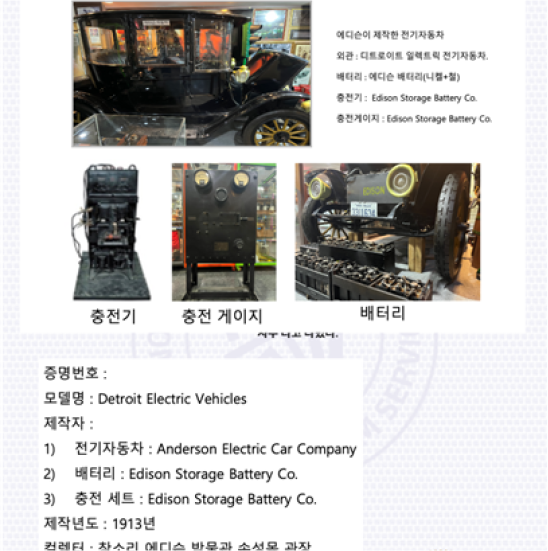
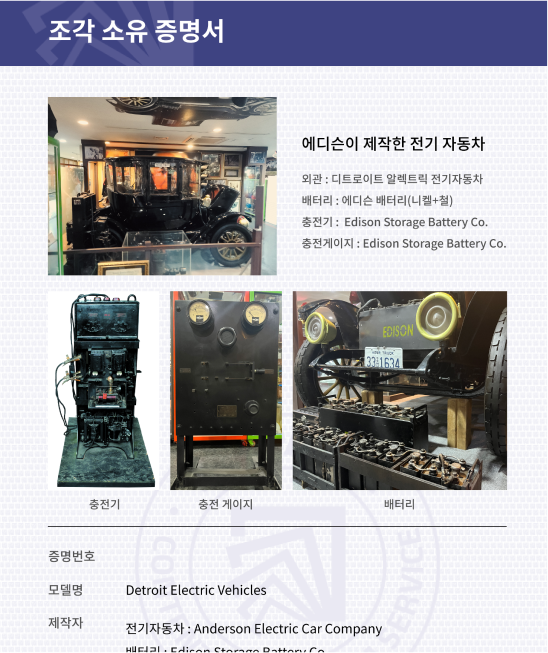
MK-01-0004 완료

diff --git a/asset/css/common.css b/asset/css/common.css
@@ -1807,7 +1807,7 @@ border-bottom: 10px solid #fff;content: "";position: absolute;top:42px;left:-15p
 
 .ownerWrap{background:url(../images/certifi_bottom.png) no-repeat;position:relative;z-index:5;padding:43px 69px 130px 69px}
 /* .ownerWrap:before{display:block;width:413px;height:413px;background:url(../images/bg_owner_mark.png) no-repeat;content:'';position:absolute;left:0;right:0;top:50%;margin:60px auto 0 auto;transform:translateY(-50%)} */
-.ownerWrap:after{display:block;content:'';width:228px;height:228px;background:url(../images/img_leopatra.png) no-repeat;position:absolute;right:40px;bottom:52px}
+.ownerWrap:after{display:block;content:'';width:228px;height:228px;background:url(../images/img_leopatra.png) no-repeat;position:absolute;right:40px;bottom:200px}
 .ownerWrap .ownerItem{position:relative;z-index:5;border:0;padding:0}
 .ownerWrap .ownerItem .info{padding-left:0;vertical-align: top;padding-top:17px;padding-right:10px;width:calc(100% - 241px)}
 .ownerWrap .ownerItem .info .subject{margin-bottom:0}
@@ -1873,7 +1873,7 @@ border-bottom: 10px solid #fff;content: "";position: absolute;top:42px;left:-15p
 #mnma0001 .mainCon {width: 100%;height: auto;}
 #mnma0001 .mainCon .contents{display: flex; align-items: center; padding: 100px 60px; width: 100%; margin-bottom: 105px;}
 #mnma0001 .mainCon .contents:nth-child(1){background-color: #D6DDEC;}
-#mnma0001 .mainCon .contents:nth-child(2){background-color: #ECDCDC;}
+#mnma0001 .mainCon .contents:nth-child(2){background-color: #DEDCEC;}
 #mnma0001 .mainCon .contents:nth-child(3){background-color: #E9E9E9;}
 #mnma0001 .mainCon .contents:nth-child(4){background-color: #FFF3E6;}
 #mnma0001 .mainCon .contents:nth-child(5){background-color: #DAD4CE;}
@@ -2302,22 +2302,23 @@ table tbody .item .cell { height: 90px;}
 #collectCertfi .subject .title{ font-size: 24px; font-weight: 500; line-height: 34px; color: #000; margin-top: 0px; padding-top: 0;}
 #collectCertfi .subject .des{width: 350px;  font-size: 16px; line-height: 23px; margin-top: 50px;}
 
-#collectCertfi .ownerWrap { padding: 43px 60px 19px 60px;  background: url(../images/certifi_bottom.png) repeat;}
+#collectCertfi .certiStamp { position: absolute;z-index: -1;top: 50%;left: 50%;transform: translate(-50%, -50%);}
+#collectCertfi .ownerWrap { padding: 43px 60px 19px 60px;  background: url(../images/certifi_bottom.png) repeat; background-size: cover;}
+.layerPop#collectCertfi .popCont {height: 600px;}
 #collectCertfi .ownerWrap .ownerList { margin-top: 35px;}
-#collectCertfi .ownerItem img{background-position: center; background-size: cover; background-repeat: no-repeat;}
 #collectCertfi .ownerItem .flexBox { display: flex;}
-#collectCertfi .ownerItem .flexBox .img01{width: 320px; background-image: url('../images/mk010004_img01.png'); background-position: center; background-size: cover; background-repeat: no-repeat;}
 #collectCertfi .ownerItem .flexBox .textBox{ padding-left: 39px;padding-top: 50px;}
-#collectCertfi .ownerItem .flexBox .textBox .p01{font-size: 22px;line-height: 32px;}
+#collectCertfi .ownerItem .flexBox .textBox .p01{font-size: 22px;line-height: 32px; font-weight: bold;}
 #collectCertfi .ownerItem .flexBox .textBox .p02{font-size: 16px;line-height: 30px;margin-top: 19px;}
-#collectCertfi .ownerItem .flexBox .img02{height: 278px; background-image: url('../images/mk010004_img02.png');}
-#collectCertfi .ownerItem .flexBox .img03{height: 278px; background-image: url('../images/mk010004_img03.png');}
-#collectCertfi .ownerItem .flexBox .img04{height: 278px; background-image: url('../images/mk010004_img04.png');}
+#collectCertfi .ownerItem .flexBox:nth-child(2){gap: 15px; padding-bottom: 20px; border-bottom: 1px solid #535353;}
+#collectCertfi .ownerItem .flexBox:nth-child(2) p{font-size: 16px; text-align: center; margin-top: 8px;line-height: 23px;color: #535353;}
   
 #collectCertfi .ownerWrap .ownerList .item { margin-bottom: 28px;}
-#collectCertfi .ownerWrap .ownerList .item dt{ font-weight: 500; font-size: 21px; line-height: 28px; color: #535353;}
-#collectCertfi .ownerWrap .ownerList .item dd{ font-size: 18px; line-height: 28px; color: #000;}
+#collectCertfi .ownerWrap .ownerList .item:nth-child(6) { margin-bottom: 40px;}
+#collectCertfi .ownerWrap .ownerList .item dt{ font-weight: 500;font-size: 18px;line-height: 26px;color: #535353;}
+#collectCertfi .ownerWrap .ownerList .item dd{ font-size: 18px; line-height: 26px; color: #000;}
 #collectCertfi .ownerWrap .ownerList .item dd span{ font-size: 14px; line-height: 16px; color: #747474; margin-left: 12px;}
+#collectCertfi .ownerWrap .ownerList .item dd p{ margin-bottom: 10px;}
 #collectCertfi .ownerWrap .ownerList table{ width: 392px; font-weight: 400; font-size: 14px; line-height: 20px; color: #4D4D4D; border-top: 1px solid #000;border-bottom: 1px solid #000;}
 #collectCertfi .ownerWrap .ownerList table thead{ height: 38.5px; border-bottom: 1px solid #000;}
 #collectCertfi .ownerWrap .ownerList table tbody tr{ height: 49px;}
@@ -2326,7 +2327,7 @@ table tbody .item .cell { height: 90px;}
 #collectCertfi .ownerWrap .ownerList table tr th:nth-child(3){ width: 103px;}
 #collectCertfi .ownerWrap .ownerList table tbody tr:nth-child(1) td { border-top: 1px solid #000;}
 
-#collectCertfi .signBox{ display: flex; flex-direction: column; justify-content: center; align-items: center; width: 100%; margin-top: 19px;}
+#collectCertfi .signBox{ display: flex; flex-direction: column; justify-content: center; align-items: center; width: 100%; margin-top: 19px;padding-top: 40px; padding-bottom: 50px;}
 #collectCertfi .signBox .signDay{ font-size: 16px; line-height: 19px;}
 #collectCertfi .signBox img{ margin-top: 16px; width: 174px;}
 

diff --git a/html/MK-01-0004.html b/html/MK-01-0004.html
@@ -54,7 +54,7 @@
 			<div id="contents">
 				<!-- 콘텐츠 상세 : s -->
 				<button type="button" class="btns btnCol01" onclick="layerPop('open' , '#collectCertfi')">
-					<span>소장품 소유 증명서</span>
+					<span>조각 소유 증명서</span>
 				</button>
 				<!-- 콘텐츠 상세 : e -->
 			</div>
@@ -100,45 +100,69 @@
 <div class="layerPop cerificatePop" id="collectCertfi">
 	<div class="layerPopArea">
 		<div class="popHead">
-			<strong class="tit">소장품 소유 증명서</strong>
+			<strong class="tit">조각 소유 증명서</strong>
       <img src="../asset/images/logo_half.png" alt="" class="logo">
 		</div>
 		<div class="popCont">
 			<!-- 내용 : s -->
 			<div class="ownerWrap">
 				<div class="ownerItem">
-          <div class="thumb"><img src="../asset/images/item02 (아이텔리아 포노그래프).png" alt=""></div>
-					<div class="info">
-						<div class="subject">
-							<span class="year">1906</span>
-							<span class="title">스탠다드 포노그래프 아이텔리아 </span>
-							<span class="des">백조의 목이라고 불리우는 곡선이 아름다운 포노그래프로 2분, 4분용 원통형 레코드가 함께 사용되었다.</span>
-						</div>
-					</div>
+          <div class="flexBox">
+            <img src="../asset/images/mk010004_img01.png" alt="">
+            <div class="textBox">
+              <p class="p01">에디슨이 제작한 전기 자동차</p>
+              <p class="p02">
+                외관 : 디트로이트 알렉트릭 전기자동차<br/>
+                배터리 : 에디슨 배터리(니켈+철)<br/>
+                충전기 :  Edison Storage Battery Co.<br/>
+                충전게이지 : Edison Storage Battery Co.</p>
+            </div>
+          </div>
+          <div class="flexBox mt20">
+            <div class="item01">
+              <img src="../asset/images/mk010004_img02.png" alt="">
+              <p>충전기</p>
+            </div>
+            <div class="item02">
+              <img src="../asset/images/mk010004_img03.png" alt="">
+              <p>충전 게이지</p>
+            </div>
+            <div class="item03">
+              <img src="../asset/images/mk010004_img04.png" alt="">
+              <p>배터리</p>
+            </div>
+          </div>
 				</div>
+        <img src="../asset/images/certifi_stamp.png" alt="" class="certiStamp">
 				<div class="ownerList">
 					<dl class="item">
 						<dt>증명번호</dt>
-						<dd>b7e390864a90b7b923C9f9310c6f98aafe</dd>
+						<dd></dd>
+					</dl>
+					<dl class="item">
+						<dt>모델명</dt>
+						<dd>Detroit Electric Vehicles</dd>
 					</dl>
 					<dl class="item">
 						<dt>제작자</dt>
-						<dd>토마스 에디슨<span>Edison, Thomas Alva Edison </span></dd>
+						<dd>
+              <p>전기자동차 : Anderson Electric Car Company</p>
+              <p>배터리 : Edison Storage Battery Co.</p>
+              <p>충전 세트 : Edison Storage Battery Co.</p>
+              <p>충전 게이지 : Edison Storage Battery Co.</p>
+            </dd>
 					</dl>
 					<dl class="item">
-						<dt>수집가</dt>
-						<dd>손성목<span>Seongmok, Son </span></dd>
+						<dt>제작년도</dt>
+						<dd>1913년</dd>
 					</dl>
 					<dl class="item">
-						<dt>수집일</dt>
-						<dd>1994.09.12</dd>
-					</dl>
-					<dl class="item">
-						<dt>발행 조각</dt>
-						<dd>3,000 개</dd>
+						<dt>컬렉터</dt>
+						<dd>참소리 에디슨 박물관 손성목 관장</dd>
 					</dl>
 					<dl class="item">
 						<dt>발행 이력</dt>
+            <dd>1993년 미국 Fort Myers, Florida</dd>
 					</dl>
 					<table>
             <thead>
@@ -168,6 +192,7 @@
             <p class="signDay">2022.08.10</p>
             <img src="../asset/images/signature.png" alt="">
           </div>
+         
 				</div>
 			</div>
 			<!-- 내용 : e -->
